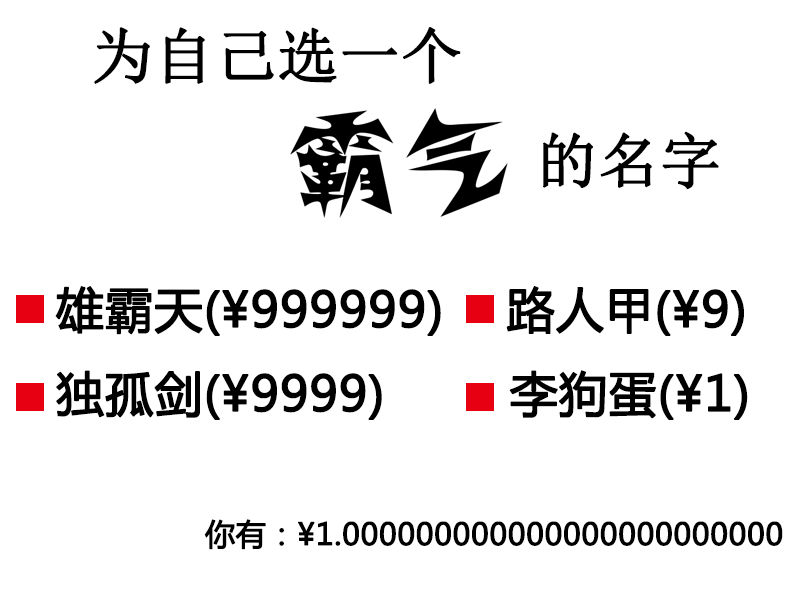
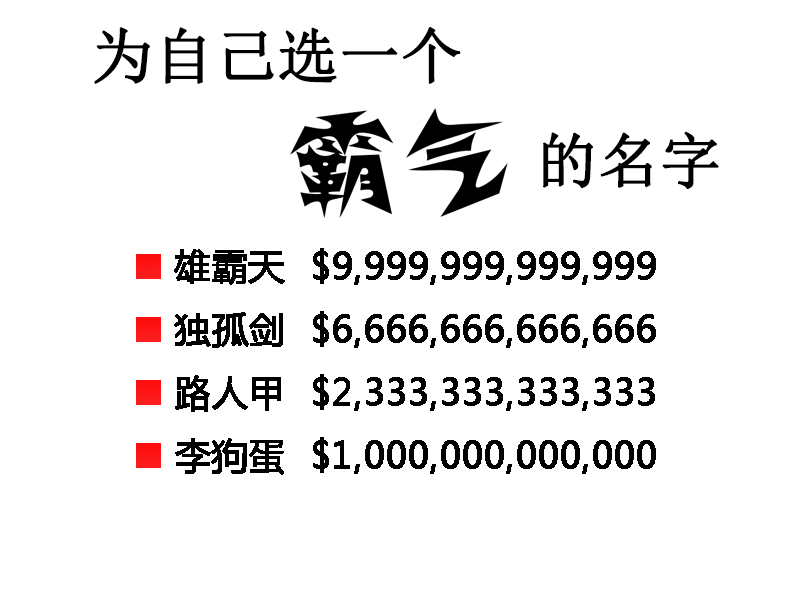
增加序章的难度（滑稽）

Changed region(s): [[0.0, 0.42, 0.9375, 0.81], [0.375, 0.87, 1.0, 0.93], [0.25, 0.87, 0.3438, 0.93]]

diff --git a/main.py b/main.py
@@ -20,17 +20,17 @@ pygame.mouse.set_visible(False)
 
 pygame.mixer.music.load('Data/music/menu_bgm.ogg')
 pygame.mixer.music.play(1,0)
-buloon_1 = 0
+buloon_1 = False
 while True:
     clock.tick(60)
     for event in pygame.event.get():
         if event.type == QUIT:
             exit()
         elif event.type == MOUSEBUTTONDOWN and 275<=event.pos[0]<=525 and 400<=event.pos[1]<=500 :
-            buloon_1 = 1
+            buloon_1 = True
             pygame.mixer.music.stop()
             break
-    if buloon_1 == 1:
+    if buloon_1 == True:
         break
     screen.blit(bg,(0,0))
     screen.blit(button_start,(275,400))
@@ -39,9 +39,25 @@ while True:
     pygame.display.update()
         
 textFont_1 = pygame.font.Font('C:\Windows\Fonts\simhei.ttf',50)
+textFont_2 = pygame.font.Font('C:\Windows\Fonts\simhei.ttf',30)
 text_1 = textFont_1.render('好好学一学数学！智商-10',True,(0,0,0))
+text_money1 = textFont_2.render('你有：$1.000,000,000,000',True,(0,0,0))
+text_money2 = textFont_2.render('你有：$1,000,000,000,000',True,(0,0,0))
 
-buloon_1 = 0
+health = 100
+strength = 10
+iq = 250
+beauty = 0
+san = 98
+backpack = {}
+achievement = {}
+iq_warn = False
+beauty_warn = False
+san_warn = False
+textFont_character = pygame.font.Font('C:\Windows\Fonts\simhei.ttf',18)
+
+buloon_1 = False
+buloon_2 = False
 pygame.mixer.music.load('Data/music/scene_1_bgm.ogg')
 pygame.mixer.music.play(1,0)
 while True:
@@ -51,7 +67,7 @@ while True:
             exit()
         elif event.type == MOUSEBUTTONDOWN:
             try:
-                if 16<=event.pos[0]<=43 and 295<=event.pos[1]<=322:
+                if 136<=event.pos[0]<=160 and 254<=event.pos[1]<=278:
                     timer_0 = time.time()
                     while True:
                         for event in pygame.event.get():
@@ -66,7 +82,7 @@ while True:
                         x,y = pygame.mouse.get_pos()
                         screen.blit(mouse_replace,(x,y))
                         pygame.display.update()
-                if 16<=event.pos[0]<=43 and 383<=event.pos[1]<=410:
+                if 136<=event.pos[0]<=160 and 317<=event.pos[1]<=341:
                     timer_0 = time.time()
                     while True:
                         for event in pygame.event.get():
@@ -81,7 +97,7 @@ while True:
                         x,y = pygame.mouse.get_pos()
                         screen.blit(mouse_replace,(x,y))
                         pygame.display.update()
-                if 466<=event.pos[0]<=493 and 295<=event.pos[1]<=322:
+                if 136<=event.pos[0]<=160 and 380<=event.pos[1]<=404:
                     timer_0 = time.time()
                     while True:
                         for event in pygame.event.get():
@@ -96,29 +112,25 @@ while True:
                         x,y = pygame.mouse.get_pos()
                         screen.blit(mouse_replace,(x,y))
                         pygame.display.update()
-                if 466<=event.pos[0]<=493 and 383<=event.pos[1]<=410:
-                    buloon_1 = 1
+                if 467<=event.pos[0]<=479 and 570<=event.pos[1]<=582:
+                    buloon_2 = not buloon_2
+                if 136<=event.pos[0]<=160 and 443<=event.pos[1]<=467:
+                    if buloon_2 == True:
+                        buloon_1 = True
                     break
             except:
                 pass
-    if buloon_1 == 1:
-        pygame.mixer.music.stop()
-        break
     screen.blit(scene_1_bg,(0,0))
     x,y = pygame.mouse.get_pos()
     screen.blit(mouse_replace,(x,y))
+    if buloon_2 == False:
+        screen.blit(text_money1,(350,550))
+    else:
+        screen.blit(text_money2,(350,550))
+    if buloon_1 == True:
+        pygame.mixer.music.stop()
+        break
     pygame.display.update()
-        
-health = 100
-strength = 10
-iq = 250
-beauty = 0
-san = 98
-backpack = {}
-iq_warn = False
-beauty_warn = False
-san_warn = False
-textFont_character = pygame.font.Font('C:\Windows\Fonts\simhei.ttf',18)
 
 def update_health():
     if health > 100:
